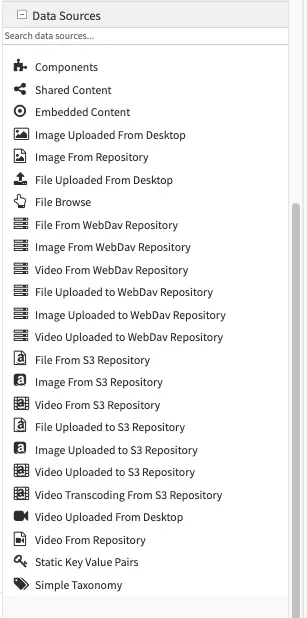
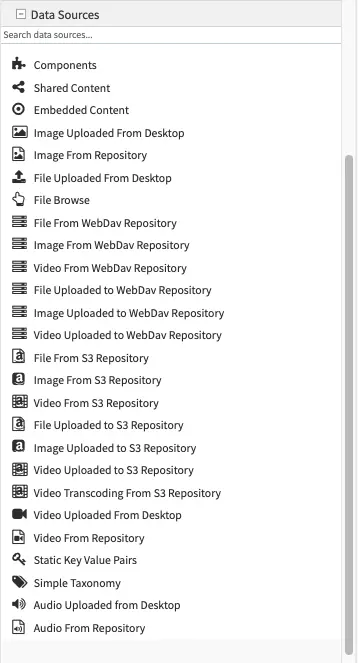
Add audio datasources #6535

Changed region(s): [[0.0, 0.0, 0.9967, 1.0]]

diff --git a/source/by-role/developer/common/content-modeling/form-sources/form-source-audio-repo.rst b/source/by-role/developer/common/content-modeling/form-sources/form-source-audio-repo.rst
@@ -1,0 +1,34 @@
+:is-up-to-date: True
+:last-updated: 4.1.4
+
+.. _form-source-audio-repo:
+
+=================================
+Audio from Repository Data Source
+=================================
+.. version_tag::
+    :label: Since
+    :version: 4.1.4
+
+Data source to select audios from repository.
+
+.. figure:: /_static/images/form-sources/form-source-audio-repo.webp
+    :width: 25%
+    :alt: Source Control Audio From Repository
+
+|
+
+-------------
+Configuration
+-------------
+.. image:: /_static/images/form-sources/form-source-audio-repo-conf.webp
+    :width: 40%
+    :alt: Source Control Audio From Repository Configuration
+    :align: left
+
+.. include:: /includes/form-sources/form-source-field-basics.rst
+
++------------------------+--------------------------------------------------------------------------+
+|| Properties            || - Repository Path: Path where to browse the audios from the repository. |
+||                       || - Use Search: Enable or disable searching for audios in the repository. |
++------------------------+--------------------------------------------------------------------------+

diff --git a/source/includes/form-sources/list-form-sources.rst b/source/includes/form-sources/list-form-sources.rst
@@ -89,12 +89,20 @@
              :alt: Form Data Sources - Video From Repository
 
 .. |ctlKVPair| image:: /_static/images/form-sources/ds-key-pair-val.webp
-             :width: 58%
+             :width: 55%
              :alt: Form Data Sources - Static Key Value Pairs
 
 .. |ctlSimpleTaxonomy| image:: /_static/images/form-sources/ds-simple-taxonomy.webp
              :width: 45%
              :alt: Form Data Sources - Simple Taxonomy
+
+.. |ctlAudioDt| image:: /_static/images/form-sources/ds-aud-up-dt.webp
+             :width: 70%
+             :alt: Form Data Sources - Audio Uploaded from Desktop
+
+.. |ctlAudioRepo| image:: /_static/images/form-sources/ds-aud-repo.webp
+             :width: 55%
+             :alt: Form Data Sources - Audio from Repository
 
 |
 
@@ -152,3 +160,7 @@
      - Details are in the :ref:`form-source-kvp` page.
    * - |ctlSimpleTaxonomy|
      - Details are in the :ref:`form-source-simple-taxonomy` page.
+   * - |ctlAudioDt|
+     - Details are in the :ref:`form-source-audio-desktop` page.
+   * - |ctlAudioRepo|
+     - Details are in the :ref:`form-source-audio-repo` page.

diff --git a/source/by-role/developer/common/content-modeling/form-sources/form-source-audio-desktop.rst b/source/by-role/developer/common/content-modeling/form-sources/form-source-audio-desktop.rst
@@ -1,0 +1,35 @@
+:is-up-to-date: True
+:last-updated: 4.1.4
+
+.. _form-source-audio-desktop:
+
+=======================================
+Audio Uploaded from Desktop Data Source
+=======================================
+.. version_tag::
+    :label: Since
+    :version: 4.1.4
+
+Data source to upload audio from desktop.
+
+.. figure:: /_static/images/form-sources/form-source-audio-desktop.webp
+    :width: 25%
+    :alt: Source Control Audio From Desktop
+
+|
+
+-------------
+Configuration
+-------------
+
+.. image:: /_static/images/form-sources/form-source-audio-desktop-conf.webp
+    :width: 40%
+    :alt: Source Control Audio From Desktop
+    :align: left
+
+
+.. include:: /includes/form-sources/form-source-field-basics.rst
+
++------------------------+-------------------------------------------------------------------------------+
+|| Properties            || - Repository Path: Path where to store the new audio uploaded from desktop.  |
++------------------------+-------------------------------------------------------------------------------+

diff --git a/source/includes/form-sources/form-source-field-basics.rst b/source/includes/form-sources/form-source-field-basics.rst
@@ -3,5 +3,5 @@
 +------------------------+-----------------------------------------------------------------------+
 || Title                 || Data source title to show on the form.                               |
 +------------------------+-----------------------------------------------------------------------+
-|| Name / Variable Name  || Name of variable to store the final result in.                       |
+|| Name                  || Name of variable to store the final result in.                       |
 +------------------------+-----------------------------------------------------------------------+

diff --git a/source/by-role/developer/common/content-modeling/content-modeling.rst b/source/by-role/developer/common/content-modeling/content-modeling.rst
@@ -898,6 +898,8 @@ Form Engine Data Sources (please use the scrollbar to see more data sources)
     form-sources/form-source-video-repo
     form-sources/form-source-kvp
     form-sources/form-source-simple-taxonomy
+    form-sources/form-source-audio-desktop
+    form-sources/form-source-audio-repo
 
 
 .. _macros-for-data-sources:
